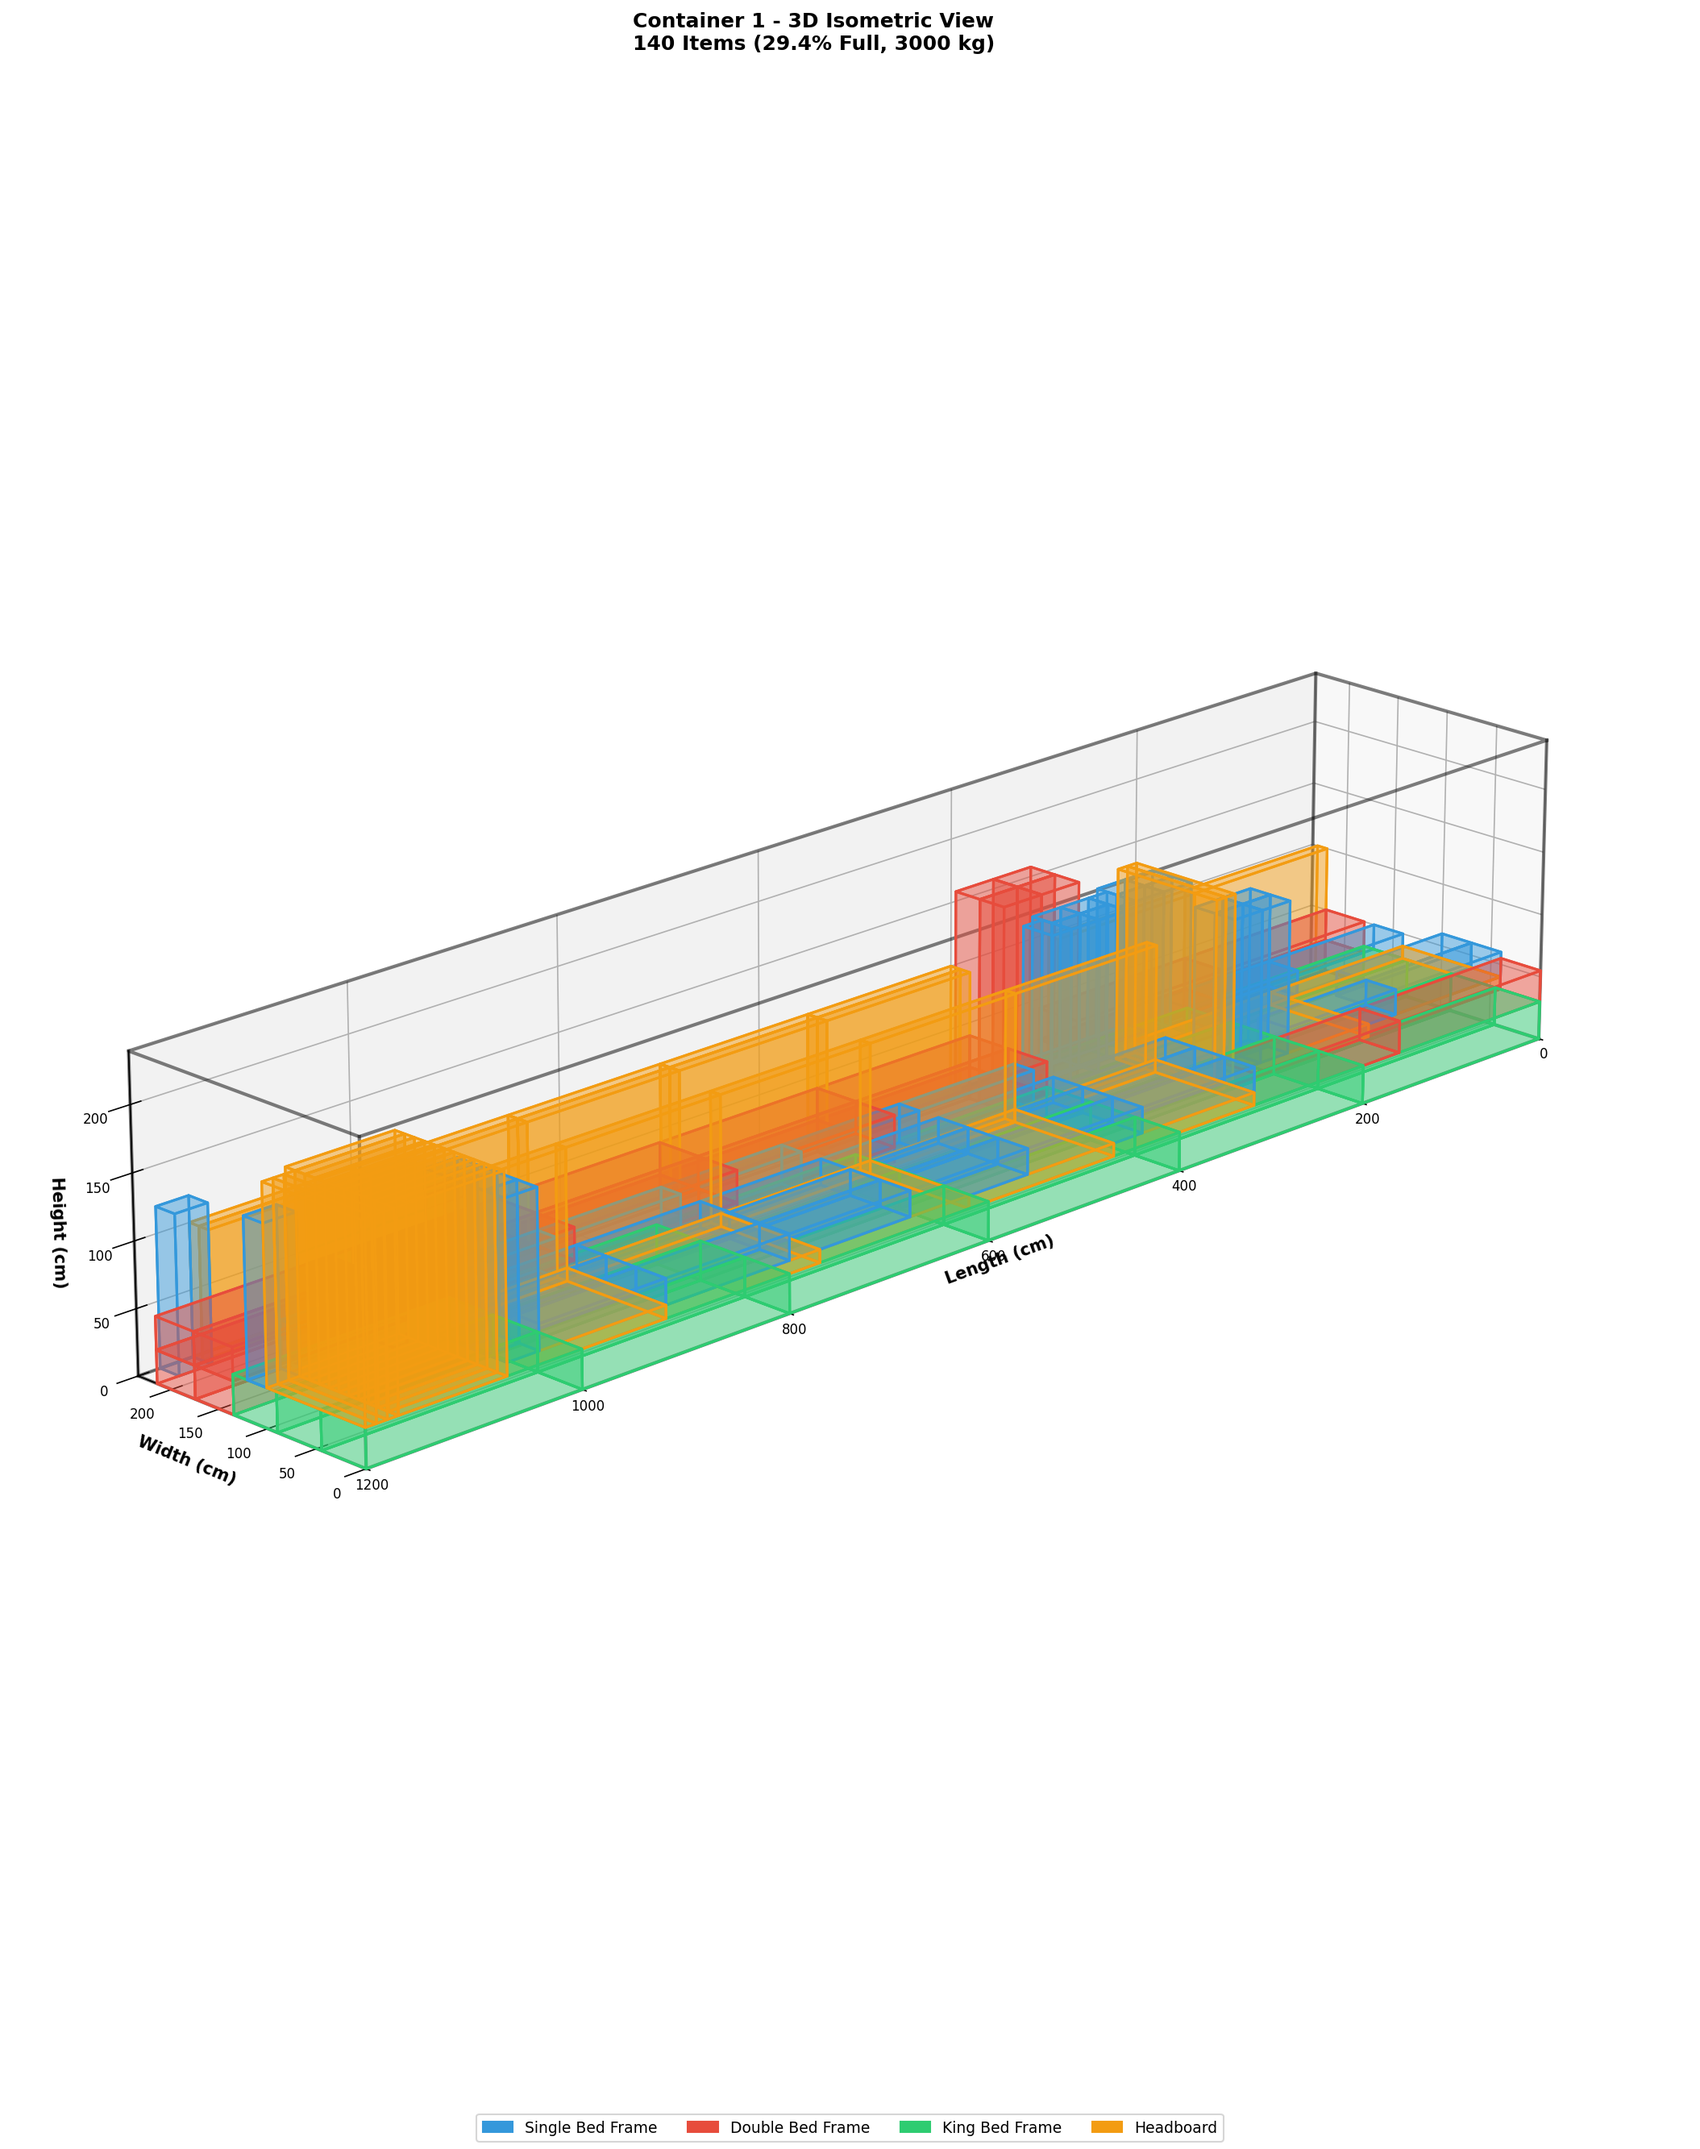
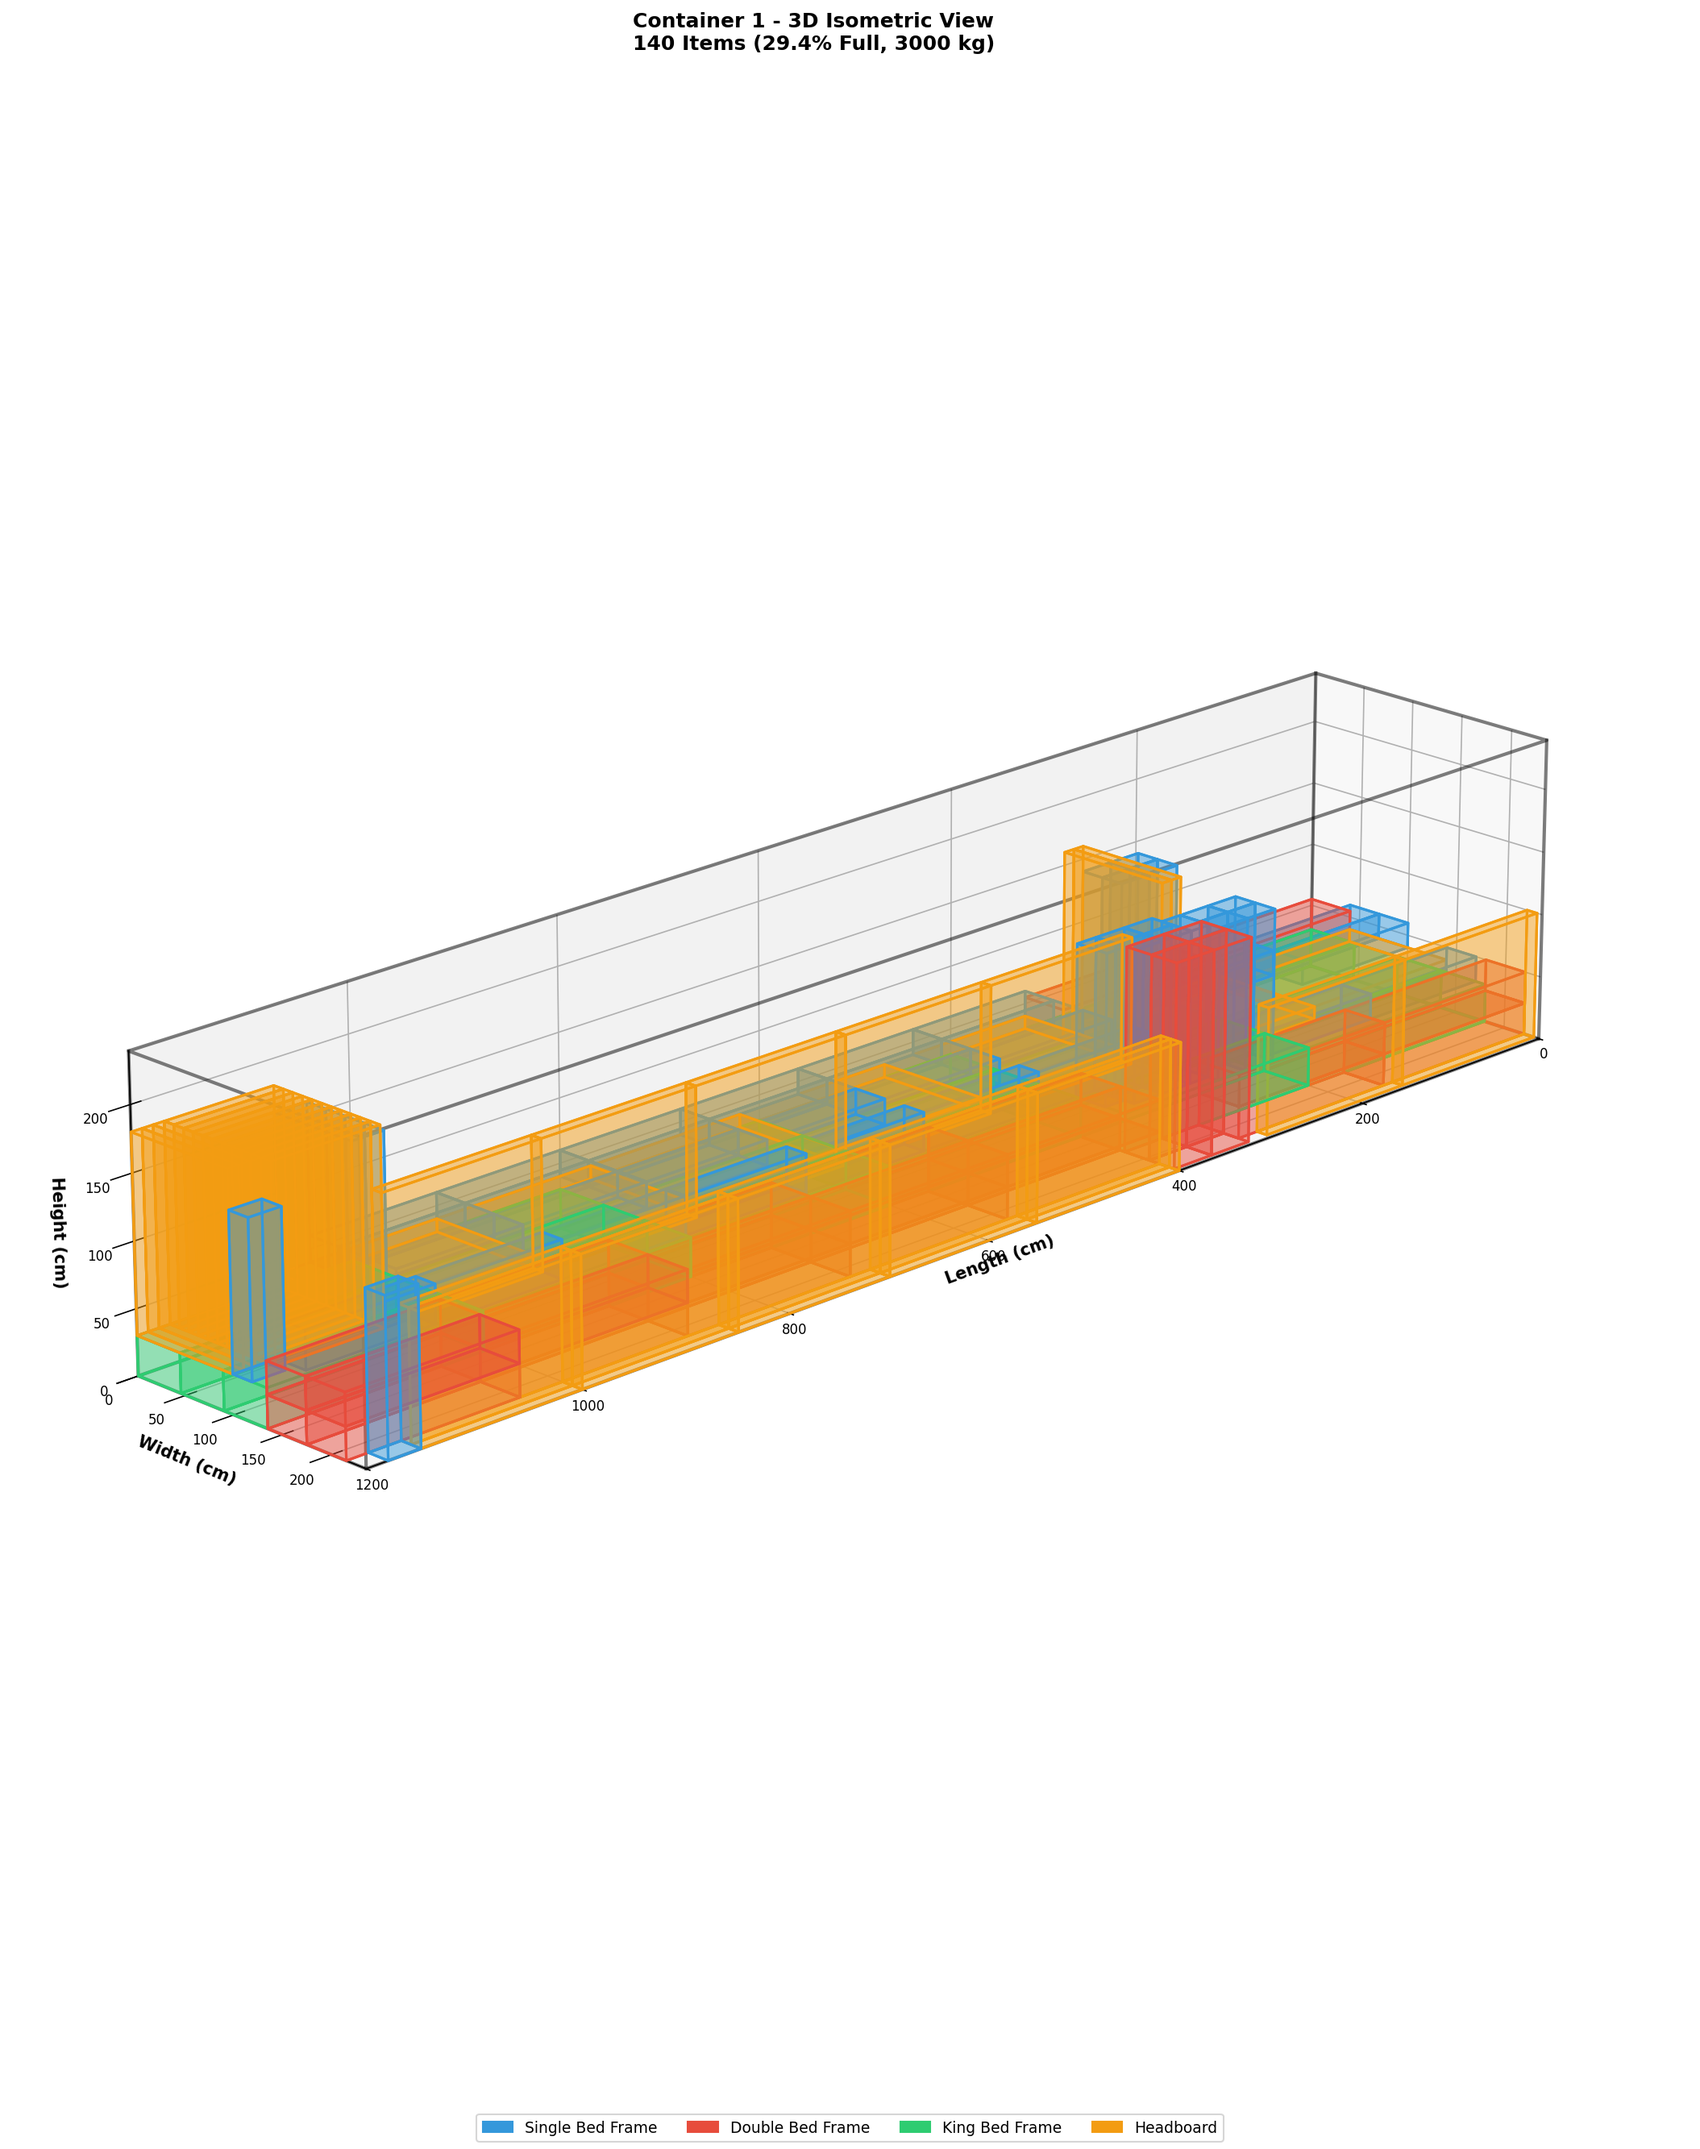
Fix Y-axis orientation: Set 0 at bottom instead of top
Reverted inverted Y-axis to use normal Cartesian coordinates:
- All 2D plots now have 0 at the bottom (positive values upward)
- Changed ylim from (max, min) to (min, max) for normal orientation
- Applied to all 2D views: Top, Front, Side (both connected and standalone)
- 3D view also corrected: set_ylim(0, container_w) instead of (container_w, 0)

Now figures display with standard coordinate system where:
- Y-axis: 0 at bottom, increasing upward
- Z-axis (Height): 0 at bottom, increasing upward
- X-axis (Length): 0 at left, increasing rightward

Changed region(s): [[0.0616, 0.3736, 0.9246, 0.6849]]

diff --git a/examples/bed_frame_with_plots.py b/examples/bed_frame_with_plots.py
@@ -286,9 +286,9 @@ def plot_container_3d(ax, container: Container3D,
     # CRITICAL: Set true physical aspect ratio for 3D
     ax.set_box_aspect((container_l, container_w, container_h))
 
-    # Set limits
+    # Set limits with normal orientation (0 at bottom)
     ax.set_xlim(0, container_l)
-    ax.set_ylim(container_w, 0)  # Inverted for proper orientation
+    ax.set_ylim(0, container_w)
     ax.set_zlim(0, container_h)
 
     # Set view angle
@@ -322,9 +322,9 @@ def plot_container_2d_top_connected(ax, container: Container3D,
     # CRITICAL: Equal aspect ratio for true proportions
     ax.set_aspect('equal')
 
-    # Set limits
+    # Set limits with normal orientation (0 at bottom)
     ax.set_xlim(-container_l*0.01, container_l*1.01)
-    ax.set_ylim(container_w*1.01, -container_w*0.01)
+    ax.set_ylim(-container_w*0.01, container_w*1.01)
     ax.tick_params(labelsize=7)
     ax.grid(True, alpha=0.3, linestyle='--')
 
@@ -356,9 +356,9 @@ def plot_container_2d_front_connected(ax, container: Container3D,
     # CRITICAL: Equal aspect ratio for true proportions
     ax.set_aspect('equal')
 
-    # Set limits
+    # Set limits with normal orientation (0 at bottom)
     ax.set_xlim(-container_l*0.01, container_l*1.01)
-    ax.set_ylim(container_h*1.01, -container_h*0.01)
+    ax.set_ylim(-container_h*0.01, container_h*1.01)
     ax.tick_params(labelsize=7)
     ax.grid(True, alpha=0.3, linestyle='--')
 
@@ -390,9 +390,9 @@ def plot_container_2d_side_connected(ax, container: Container3D,
     # CRITICAL: Equal aspect ratio for true proportions
     ax.set_aspect('equal')
 
-    # Set limits
+    # Set limits with normal orientation (0 at bottom)
     ax.set_xlim(-container_w*0.01, container_w*1.01)
-    ax.set_ylim(container_h*1.01, -container_h*0.01)
+    ax.set_ylim(-container_h*0.01, container_h*1.01)
     ax.tick_params(labelsize=7)
     ax.grid(True, alpha=0.3, linestyle='--')
 
@@ -424,9 +424,9 @@ def plot_container_2d_top(ax, container: Container3D,
     # CRITICAL: Set equal aspect ratio for true physical proportions
     ax.set_aspect('equal')
 
-    # Set limits with some padding
+    # Set limits with normal orientation (0 at bottom)
     ax.set_xlim(-container_l*0.02, container_l*1.02)
-    ax.set_ylim(container_w*1.02, -container_w*0.02)  # Inverted Y for consistency with 3D
+    ax.set_ylim(-container_w*0.02, container_w*1.02)
     ax.tick_params(labelsize=8)
     ax.grid(True, alpha=0.3, linestyle='--')
 
@@ -458,9 +458,9 @@ def plot_container_2d_front(ax, container: Container3D,
     # CRITICAL: Set equal aspect ratio for true physical proportions
     ax.set_aspect('equal')
 
-    # Set limits with some padding
+    # Set limits with normal orientation (0 at bottom)
     ax.set_xlim(-container_l*0.02, container_l*1.02)
-    ax.set_ylim(container_h*1.02, -container_h*0.02)  # Inverted Z for consistency
+    ax.set_ylim(-container_h*0.02, container_h*1.02)
     ax.tick_params(labelsize=8)
     ax.grid(True, alpha=0.3, linestyle='--')
 
@@ -492,9 +492,9 @@ def plot_container_2d_side(ax, container: Container3D,
     # CRITICAL: Set equal aspect ratio for true physical proportions
     ax.set_aspect('equal')
 
-    # Set limits with some padding
+    # Set limits with normal orientation (0 at bottom)
     ax.set_xlim(-container_w*0.02, container_w*1.02)
-    ax.set_ylim(container_h*1.02, -container_h*0.02)  # Inverted Z for consistency
+    ax.set_ylim(-container_h*0.02, container_h*1.02)
     ax.tick_params(labelsize=8)
     ax.grid(True, alpha=0.3, linestyle='--')
 
